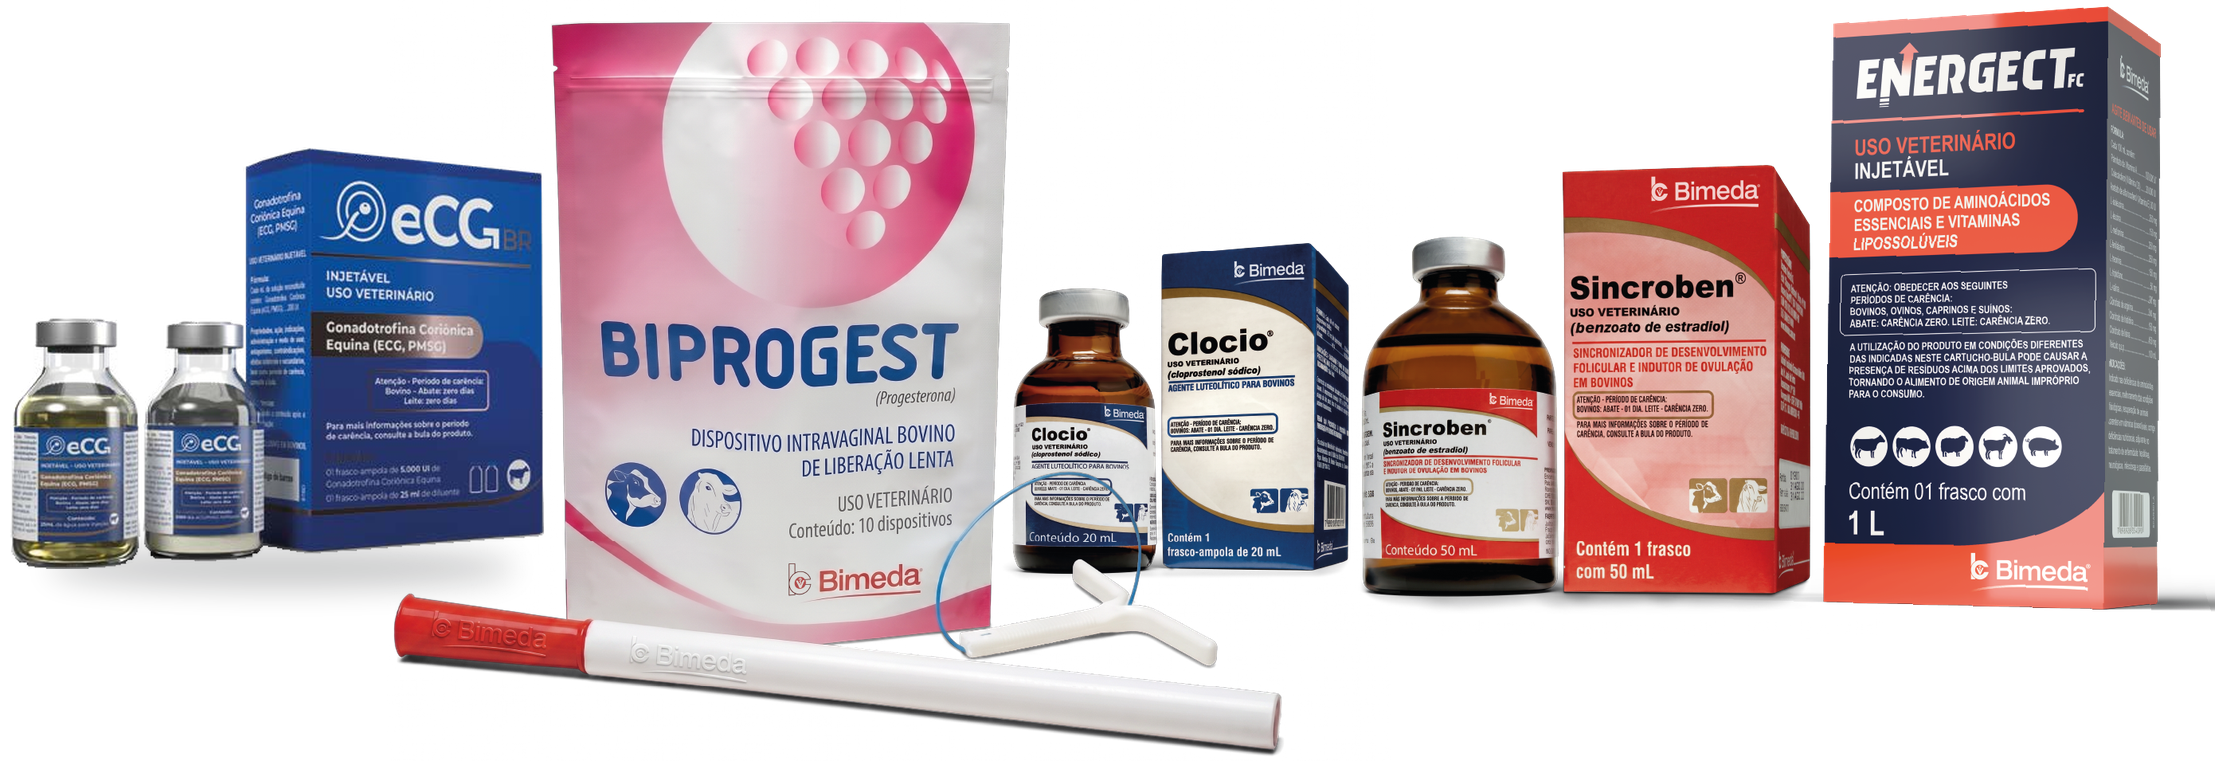
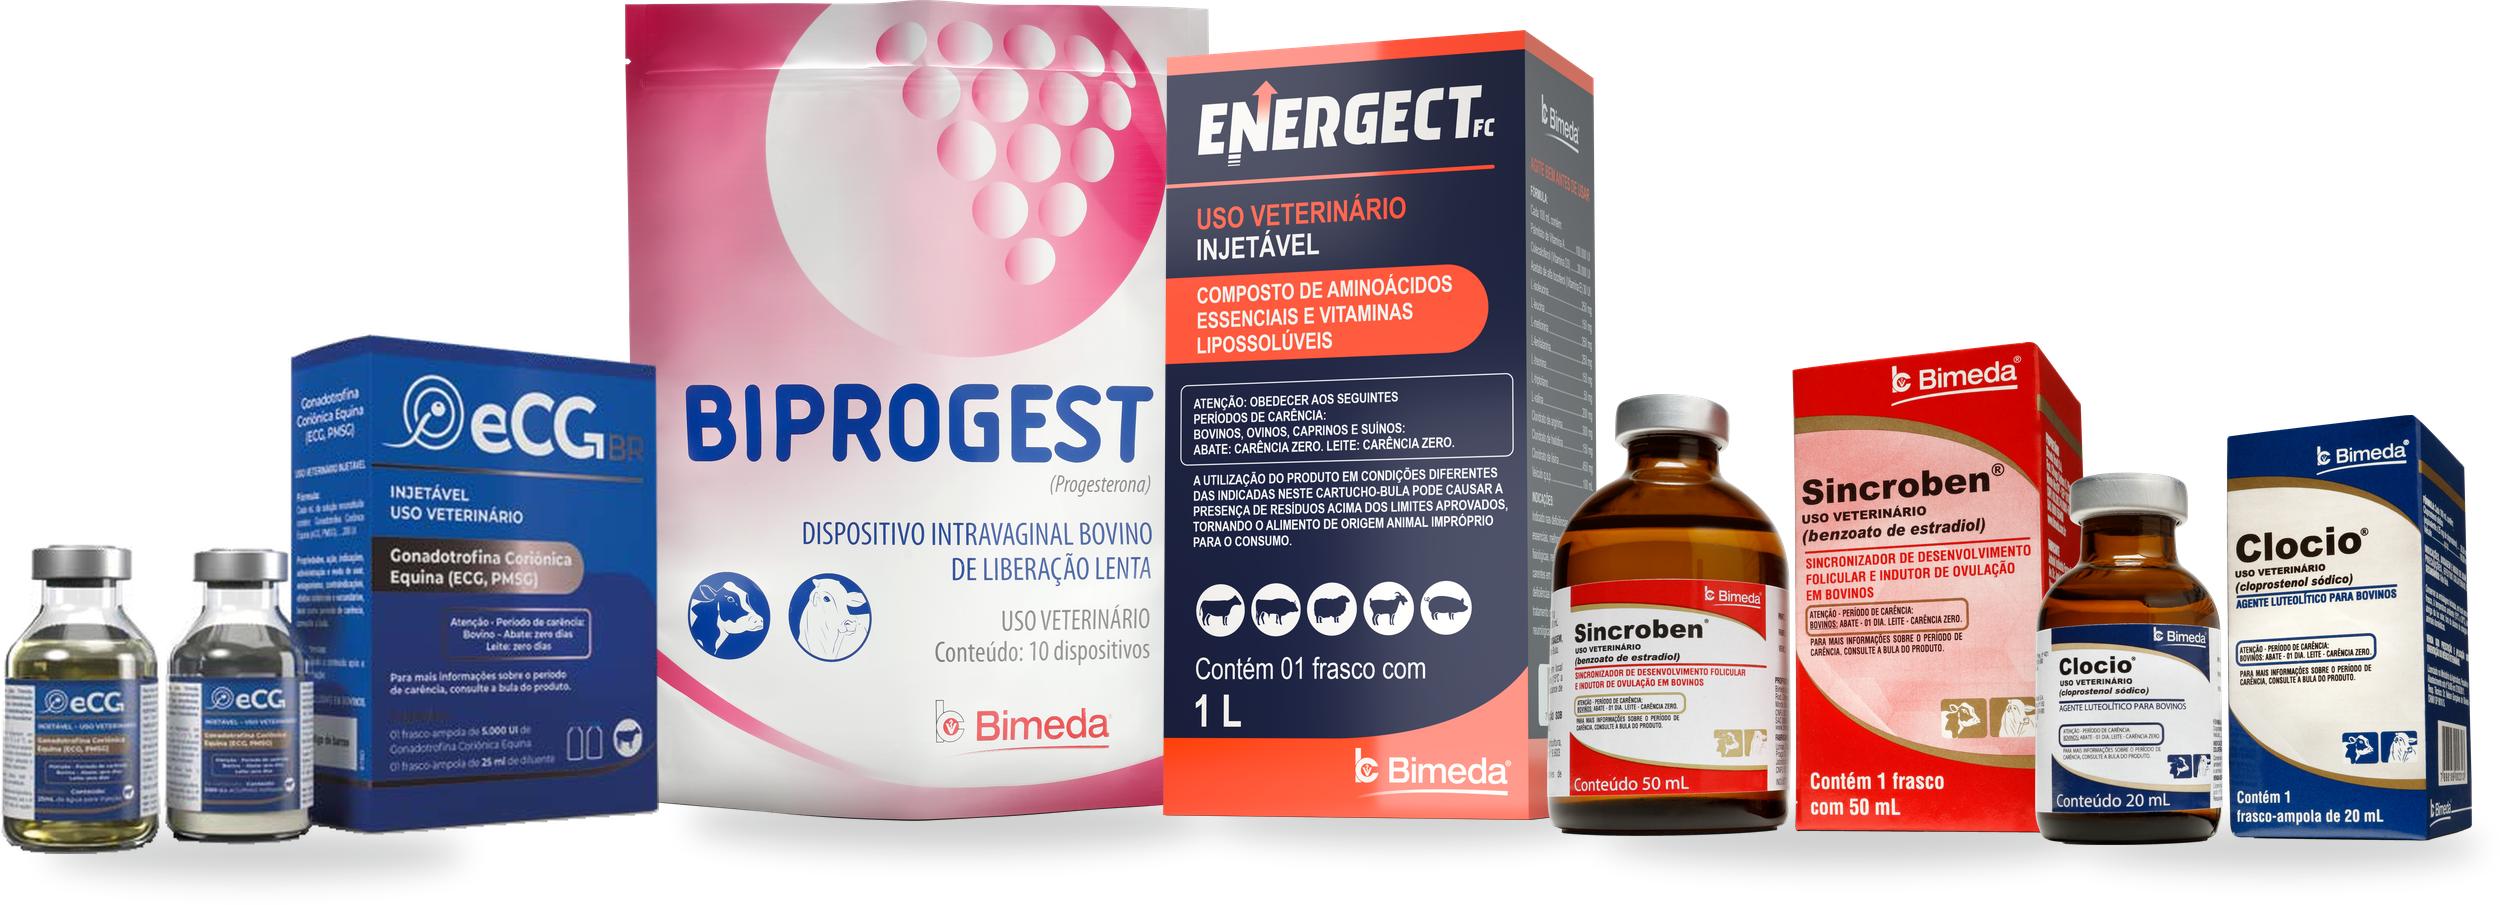
Refaz a foto de familia a partir dos pack shots originais
A arte deixa de ser recorte da foto antiga e passa a ser montada por
tools/monta-foto-familia.py, a partir dos pack shots do banco da Bimeda no
Drive, entre 3.000 e 7.600 px cada.

- Ordem igual a do texto: eCG BR, Biprogest, Energect FC, Sincroben, Clocio.
- Escala derivada do tamanho real de cada embalagem, comprimida por um
  expoente de 0,55. E o que reproduz a proporcao da foto aprovada sem
  deixar o Clocio minusculo ao lado do Energect de 1 L.
- Cada arquivo do Drive vinha com a sombra de estudio do proprio ensaio
  gravada, cada uma de uma luz. O script apaga todas e devolve uma sombra
  de contato so, discreta, todas da mesma luz, alta pela esquerda.
- Profundidade: as pecas baixas das pontas avancam, as altas do meio
  recuam, e os cartuchos assentam todos na mesma linha de chao.
- O aplicador do Biprogest ficou de fora. E a unica peca deitada no chao,
  com a perspectiva do ensaio dele, e nao assenta na linha comum. Volta
  trocando um arquivo na lista PECAS.

A arte ficou mais estreita (2604x761 para 2500x905), entao o lineup cresce
de novo na coluna.

diff --git a/index.html b/index.html
@@ -192,8 +192,8 @@
       <picture>
         <source srcset="assets/img/produtos-familia.webp" type="image/webp">
         <img src="assets/img/produtos-familia.png"
-             alt="eCG BR, Biprogest, Clocio, Sincroben e Energect FC, linha Bimeda Reprodução"
-             width="2215" height="761" loading="lazy">
+             alt="eCG BR, Biprogest, Energect FC, Sincroben e Clocio, linha Bimeda Reprodução"
+             width="2500" height="905" loading="lazy">
       </picture>
     </div>
 

diff --git a/assets/css/style.css b/assets/css/style.css
@@ -207,7 +207,7 @@ p:last-child{margin-bottom:0}
    A LINHA
    ========================================================================== */
 .lineup{margin-bottom:44px}
-.lineup img{margin-inline:auto; max-height:340px; width:auto; object-fit:contain}
+.lineup img{margin-inline:auto; max-height:360px; width:auto; object-fit:contain}
 .index{
   list-style:none; display:grid; grid-template-columns:repeat(5,1fr);
   border-top:1px solid var(--line);

diff --git a/tools/monta-foto-familia.py b/tools/monta-foto-familia.py
@@ -1,0 +1,106 @@
+"""Remonta a foto de familia da Linha Bimeda Reproducao.
+
+Cada peca vem do pack shot original do banco da Bimeda, e nao recortada da
+foto antiga. O script limpa a sombra de estudio que vem gravada em cada
+arquivo (cada uma de uma luz diferente), harmoniza a escala e devolve uma
+unica sombra de contato por produto, todas da mesma luz.
+"""
+from PIL import Image, ImageFilter, ImageDraw
+import numpy as np, os, json, sys
+
+B = os.path.expanduser('~/Library/CloudStorage/GoogleDrive-communitas@communitas.com.br/'
+                       'Drives compartilhados/Communitas Com./BIMEDA')
+SAIDA = os.path.join(os.path.dirname(__file__), '..', 'assets', 'img')
+
+H, BASE = 1000, 880          # altura da arte e linha de chao
+LIGHT_DX = 0.055             # luz vem da esquerda alta: a sombra escorre um pouco pra direita
+SH_ALPHA = 0.20              # sombra discretissima
+SH_BLUR  = 0.055             # desfoque, em fracao da largura do produto
+
+# ordem = a do texto da secao: eCG, Biprogest, Energect, Sincroben, Clocio
+PECAS = [
+  # chave        arquivo                                                                 altura  folga  avanco
+  ('ecg',        os.path.join(os.path.dirname(__file__), 'ecg-recorte-limpo.png'),                                                        500,  -34,  16),
+  ('biprogest',  B+'/imagens/produtos/Biprogest/Embalagem Biprogest.png',                    820,  -46,   0),
+  ('energect',   B+'/materiais enviados/2025/Energect/Materiais do Folheto Energect/'
+                   'Cartucho - Energect FC 1000 mL - Direita.png',                          790,  -52,   0),
+  ('sincroben',  B+'/imagens/produtos/Sincroben/Frasco + Cartucho - Sincroben 50 mL.png',   490,  -58,  12),
+  ('clocio',     B+'/imagens/produtos/Clocio/Frasco + Cartucho - Clocio 20 mL.png',         425,    0,  20),
+]
+
+# quem esta na frente: as pecas baixas das pontas avancam, as altas do meio recuam
+ORDEM_Z = ['biprogest', 'energect', 'ecg', 'sincroben', 'clocio']
+
+def limpar(path):
+    """Tira a sombra difusa gravada no arquivo, mantendo a borda do produto."""
+    im = Image.open(path).convert('RGBA')
+    a  = np.array(im)[:, :, 3]
+    core = a > 200
+    fill = np.zeros_like(core)
+    for x in range(core.shape[1]):
+        ys = np.where(core[:, x])[0]
+        if len(ys):
+            fill[ys.min():ys.max()+1, x] = True
+    m = Image.fromarray((fill*255).astype(np.uint8)).filter(ImageFilter.MaxFilter(5))
+    out = np.array(im)
+    out[:, :, 3] = (a.astype(np.float32) * (np.array(m)/255.0)).astype(np.uint8)
+    im = Image.fromarray(out)
+    return im.crop(im.split()[3].getbbox())
+
+def cartucho(im):
+    """Extensao vertical da peca mais alta da unidade (o cartucho ou o sache)."""
+    a = np.array(im)[:, :, 3] > 190
+    W, Hh = im.size
+    tops = np.array([ (np.where(a[:, x])[0][0] if a[:, x].any() else Hh) for x in range(W) ])
+    cols = np.where(tops <= tops.min() + 0.10*Hh)[0]
+    ys = np.where(a[:, cols.min():cols.max()+1].any(axis=1))[0]
+    return int(ys.min()), int(ys.max())
+
+unidades = []
+for chave, path, alvo, folga, avanco in PECAS:
+    im = limpar(path)
+    top, bot = cartucho(im)
+    k = alvo / (bot - top)
+    im = im.resize((max(1, round(im.width*k)), max(1, round(im.height*k))), Image.LANCZOS)
+    unidades.append(dict(chave=chave, im=im, cart_bot=round(bot*k), folga=folga, avanco=avanco))
+    print(f'{chave:10s} {im.size}  base do cartucho em {round(bot*k)}')
+
+MARGEM = 40
+x = MARGEM
+for u in unidades:
+    u['x'] = x
+    x += u['im'].width + u['folga']
+W = x - unidades[-1]['folga'] + MARGEM
+
+canvas = Image.new('RGBA', (W, H), (0, 0, 0, 0))
+
+# 1) as sombras primeiro, todas da mesma luz
+sh = Image.new('L', (W, H), 0)
+d  = ImageDraw.Draw(sh)
+for u in unidades:
+    im, x0 = u['im'], u['x']
+    a  = np.array(im)[:, :, 3] > 190
+    ys = np.where(a.any(axis=1))[0]
+    pe = ys.max()                                    # ponto mais baixo da peca
+    faixa = a[max(0, pe-round(im.height*0.05)):pe+1] # largura do produto junto ao chao
+    xs = np.where(faixa.any(axis=0))[0]
+    if not len(xs): continue
+    cx0, cx1 = x0 + xs.min(), x0 + xs.max()
+    largura  = cx1 - cx0
+    y = BASE + u['avanco'] + (pe - u['cart_bot'])    # o chao de cada peca segue a base do cartucho
+    desloc = round(largura * LIGHT_DX)
+    d.ellipse([cx0 + round(largura*0.04) + desloc, y - round(largura*0.045),
+               cx1 - round(largura*0.04) + desloc, y + round(largura*0.052)], fill=255)
+sh = sh.filter(ImageFilter.GaussianBlur(round(W*SH_BLUR/10)))
+sh = sh.point(lambda v: int(v*SH_ALPHA))
+canvas.paste(Image.new('RGBA', (W, H), (58, 68, 86, 255)), (0, 0), sh)
+
+# 2) os produtos, da esquerda para a direita, cada um a frente do anterior
+for chave in ORDEM_Z:
+    u = next(u for u in unidades if u['chave'] == chave)
+    canvas.alpha_composite(u['im'], (u['x'], BASE + u['avanco'] - u['cart_bot']))
+
+canvas = canvas.crop(canvas.getbbox())
+canvas.save(os.path.join(SAIDA, 'produtos-familia.png'), optimize=True)
+canvas.save(os.path.join(SAIDA, 'produtos-familia.webp'), quality=90, method=6)
+print('arte final', canvas.size)

diff --git a/README.md b/README.md
@@ -58,9 +58,8 @@ A LP final entra em `master` depois que a estrutura for aprovada e o layout, afi
    estúdio removida para bater com o restante da foto de família, que é recorte limpo. Sobram
    414x327 px de produto. Serve nas duas aplicações atuais, mas um arquivo de origem em resolução
    maior deixaria a peça pronta para qualquer uso.
-   O mesmo vale para a foto de família: a versão em uso tem 2000x761 px, e existe uma de
-   2780x1259 px em `BIMEDA/materiais enviados/Linha Reprodução/Bimeda Repro 2/(Gravação)/Produtos.png`,
-   que vale adotar se a montagem for refeita.
+   É a única peça da foto de família que não vem de pack shot em alta: as outras quatro saem de
+   arquivos de 3.000 a 7.600 px do banco da Bimeda.
 2. **URLs das redes sociais.** Instagram, LinkedIn e Facebook estão presumidos a partir de `@bimedabrasil`.
 3. **Link da política de privacidade** para o aceite do formulário.
 4. **Hospedagem do vídeo.** Hoje o arquivo tem 18 MB e é servido pela própria página. Para produção,
@@ -73,6 +72,29 @@ A LP final entra em `master` depois que a estrutura for aprovada e o layout, afi
   download do PDF.
 
 ---
+
+## A foto de família da linha
+
+Ela não é mais um arquivo solto: é gerada por `tools/monta-foto-familia.py`, que monta os cinco
+produtos a partir dos pack shots originais do banco da Bimeda no Drive. Para regerar:
+
+```bash
+python3 tools/monta-foto-familia.py
+```
+
+O que o script resolve, e por que ele existe:
+
+- **Ordem.** Os produtos aparecem na mesma sequência do texto da seção e das seções da página:
+  eCG BR, Biprogest, Energect FC, Sincroben, Clocio.
+- **Escala.** Nenhum pack shot está em escala real entre si. As alturas são derivadas do tamanho
+  real de cada embalagem com uma compressão (expoente 0,55), que é o que reproduz a proporção da
+  foto antiga sem deixar o Clocio minúsculo ao lado do Energect de 1 L.
+- **Sombra.** Cada pack shot vem do Drive com a sombra de estúdio do próprio ensaio gravada no
+  arquivo, e cada ensaio tinha uma luz diferente. O script apaga essas sombras e devolve uma só,
+  de contato, discreta, todas da mesma luz (alta, pela esquerda).
+- **Aplicador do Biprogest.** Ficou de fora. Ele é a única peça deitada no chão, com a perspectiva
+  do ensaio dele, e não assenta na linha de chão comum. Para trazê-lo de volta, é trocar o arquivo
+  do Biprogest por `Embalagem + Produto Biprogest.png` na lista `PECAS`.
 
 ## Conteúdo
 
